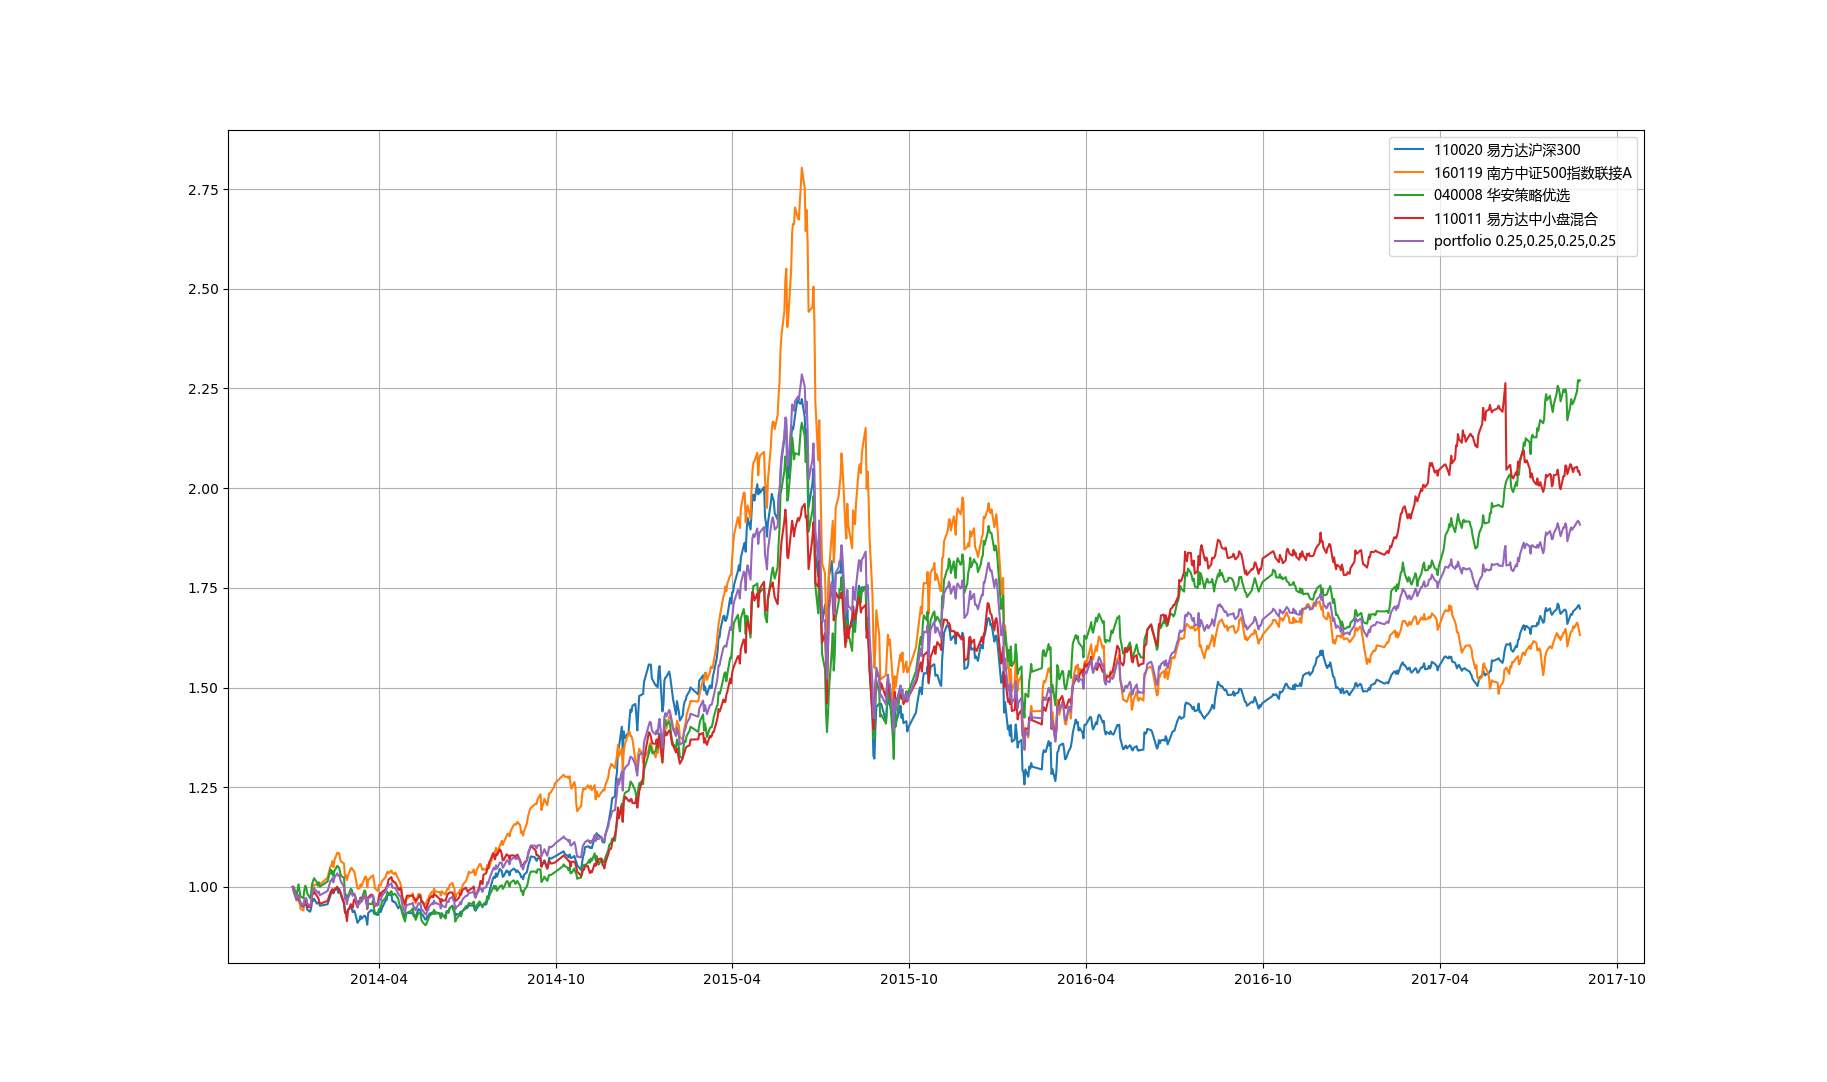
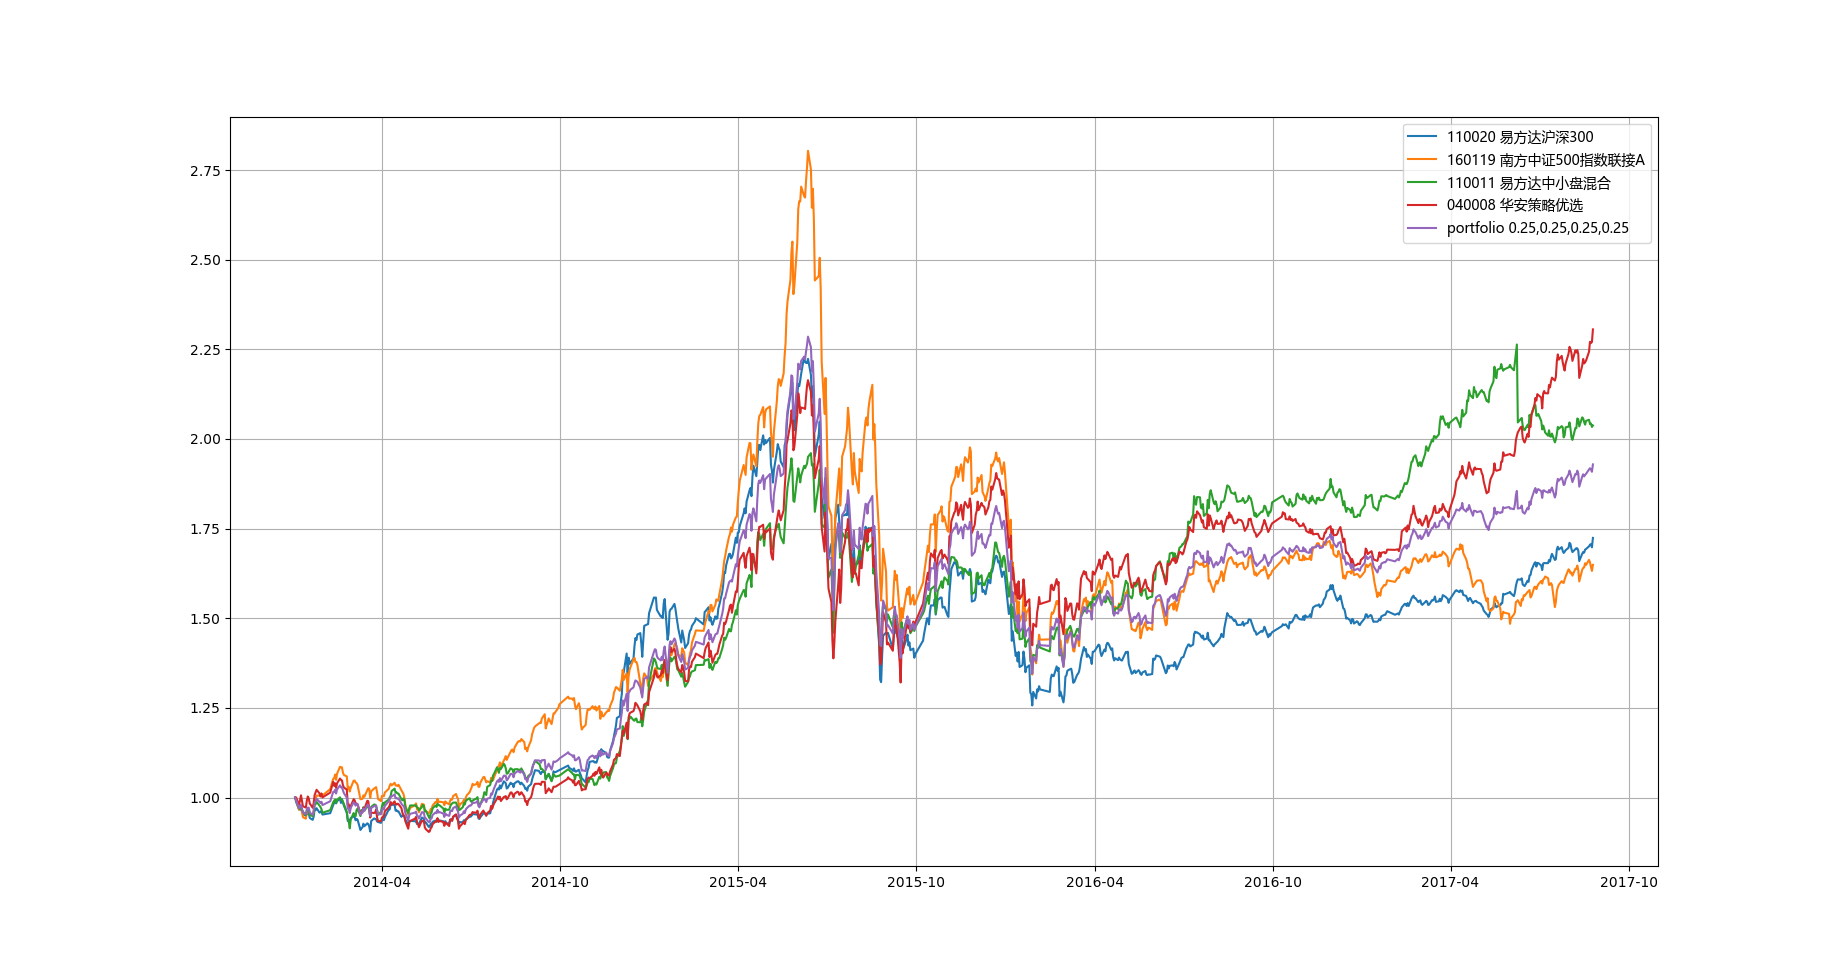
edit funddata.py

diff --git a/funddata.py b/funddata.py
@@ -19,8 +19,11 @@ if __name__ == "__main__":
 
     startdate = '2014-01-01'
     enddate = '2017-08-31'
-    codelist = ['110020', '160119', '040008', '110011']
-    use_unitnetvalue = True
+    codelist = ['110020', '160119', '110011', '041008']
+
+    # 0: Use unit net value; 1: Use accumulated net value
+    value_field_index = 1
+    value_field = ['fld_unitnetvalue', 'fld_netvalue'][value_field_index]
 
     # Read command line arguments
     if len(sys.argv) > 1:
@@ -36,9 +39,6 @@ if __name__ == "__main__":
 
     # portfolio weights
     weightlist = [1/len(codelist) for i in codelist]
-
-    # Use unit net value or accumulated net value
-    value_field = 'fld_unitnetvalue' if use_unitnetvalue else 'fld_netvalue'
 
     # Generate URLs from start date, end date and code list
     urls = ['http://data.funds.hexun.com/outxml/detail/openfundnetvalue.aspx?fundcode={0}&startdate={1}&enddate={2}'

diff --git a/README.md b/README.md
@@ -5,7 +5,7 @@ The code was written in and tested with Python 3.6 (Anaconda 4.4.0).
 ## Usage
 #### Run funddata.py with command line arguments of start date, end date and a list of fund codes
 #### Example:
-python funddata.py 2014-01-01 2017-08-31 110020 160119 040008 110011
+python funddata.py 2014-01-01 2017-08-31 110020 160119 110011 041008
 
 ## Plot of unit net values
 ![Screenshot](fld_unitnetvalue.png)
